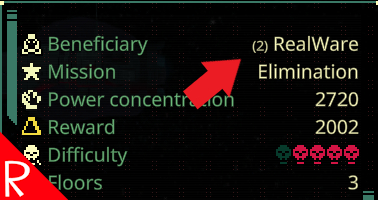
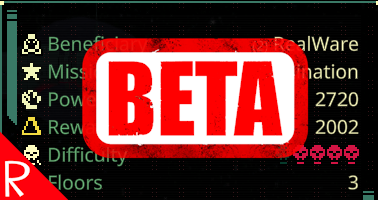
0.9.1.384s.a64cc3f compatible.

diff --git a/src/ItemPropertyPanel_Initialize_Patch.cs b/src/ItemPropertyPanel_Initialize_Patch.cs
@@ -6,12 +6,13 @@ using System.Linq;
 using System.Reflection;
 using System.Text;
 using System.Threading.Tasks;
-using static MGSC.ItemPropertyPanel;
+using UnityEngine;
+using static MGSC.TooltipProperty;
 
 namespace QM_ShowTechLevel
 {
 
-    [HarmonyPatch(typeof(ItemPropertyPanel), nameof(ItemPropertyPanel.Initialize),
+    [HarmonyPatch(typeof(TooltipProperty), nameof(TooltipProperty.Initialize),
         new Type[] { typeof(ItemPropertyType), typeof(string), typeof(ComprasionType), typeof(string) })]
     internal static class ItemPropertyPanel_Initialize_Patch
     {

diff --git a/src/Properties/AssemblyInfo.cs b/src/Properties/AssemblyInfo.cs
@@ -32,5 +32,4 @@ using System.Runtime.InteropServices;
 // You can specify all the values or you can default the Build and Revision Numbers
 // by using the '*' as shown below:
 // [assembly: AssemblyVersion("1.0.*")]
-[assembly: AssemblyVersion("1.1.0.0")]
-[assembly: AssemblyFileVersion("1.1.0.0")]
+[assembly: AssemblyVersion("1.1.1")]

diff --git a/README.md b/README.md
@@ -1,7 +1,12 @@
-# Quasimorph Show Tech Level
+# Quasimorph Show Tech Level - BETA ONLY
 
 ![thumbnail icon](media/thumbnail.png)
 
+# Beta Only
+This is only for the opt in beta version of the game.
+For the normal release, use the mod of the same name without the beta suffix.
+
+# Docs
 Adds a faction's tech level to the station tooltip.
 
 The tech level of a faction is an indicator of the difficulty of a mission.
@@ -14,6 +19,9 @@ Thanks!
 Source code is available on GitHub at https://github.com/NBKRedSpy/QM_ShowTechLevel
 
 # Change Log
+
+## 1.1.1
+Version 0.9.1.384 compatibility.
 
 ## 1.1.0
 Version .8 compatibility.
